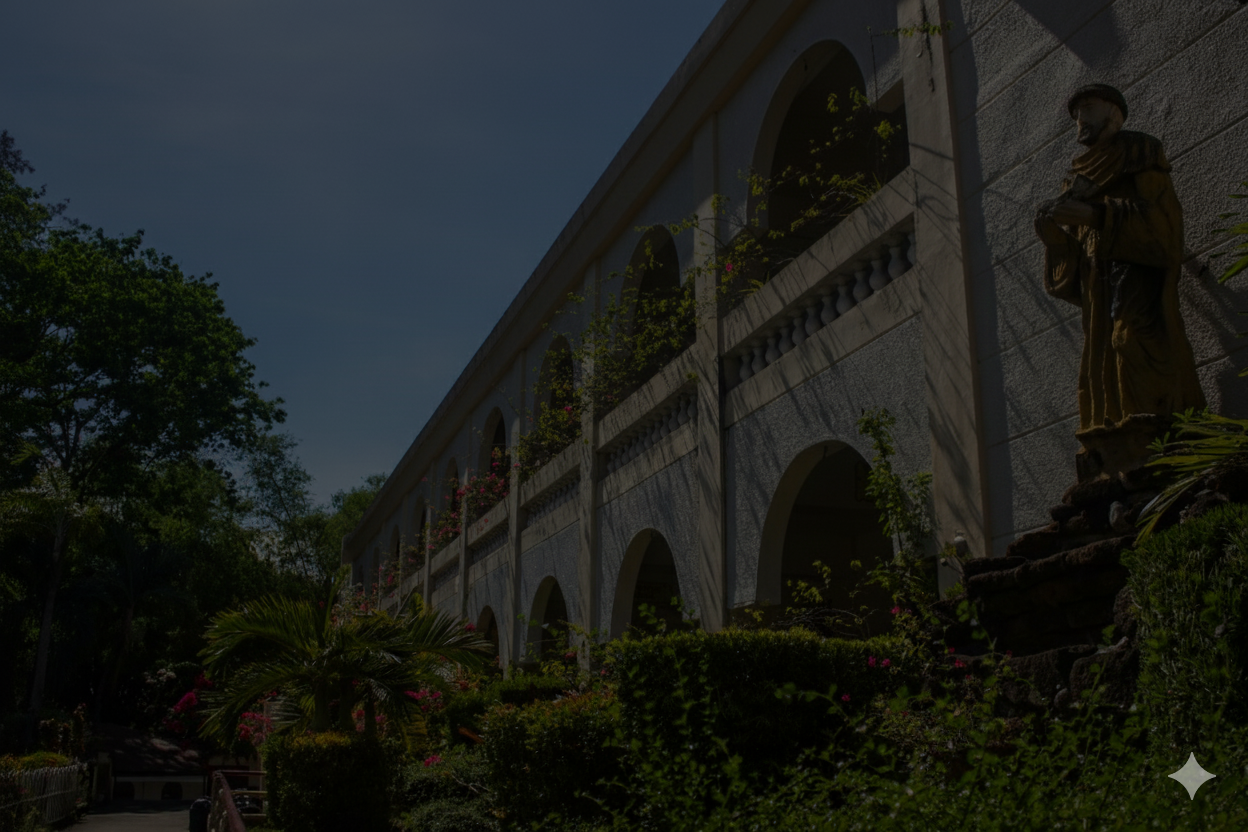
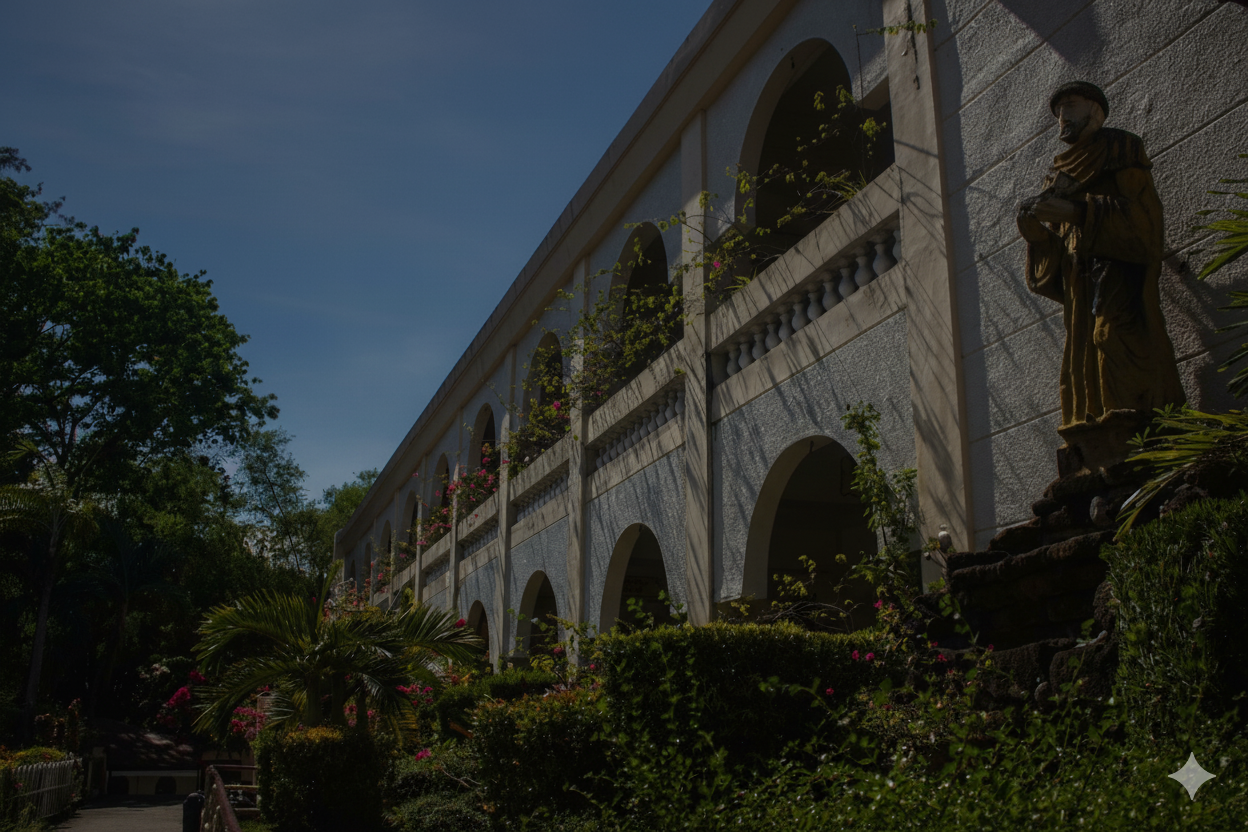
Added about section Change layout for recognitions Added Footer from original site

diff --git a/style/style.css b/style/style.css
@@ -1,7 +1,7 @@
 .banner-bg {
   background-image: url('../assets/img/banner.png'); 
   background-size: cover;
-  background-position: center; 
+  background-position: top; 
   background-repeat: no-repeat; 
 }
 
@@ -21,14 +21,13 @@
 }
 
 .stylish-link {
-  color: #da0021;
+  color: #ffe7ea;
   font-weight: 500;
-  text-decoration: none;
   transition: color 0.3s ease, text-decoration 0.3s ease;
 }
 
 .stylish-link:hover {
-  color: #a8001a;
+  color: #ff9aa9;
   text-decoration: underline;
 }
 
@@ -37,9 +36,8 @@
 }
 
 .custom-card {
-  
   display: flex;
   flex-direction: column;
-  border-radius: 0.5rem; 
-
+  border-radius: 0.5rem;
 }
+

diff --git a/index.php b/index.php
@@ -8,15 +8,15 @@
   <?php include './assets/includes/bootstrap.php'; ?>
 </head>
 
-<body style="padding-top: 96px;">
+<body >
   <main>
     <!-- Navbar -->
     <?php include './assets/includes/navbar.php'; ?>
 
     <!-- Banner -->
-    <div id="banner" class="d-flex w-100 p-4 text-black text-center flex-column align-items-center py-5">
+    <div id="banner" class="banner-bg text-white d-flex w-100 text-black text-center gap-2 flex-column align-items-center" style="padding: 10rem 0;">
       <section id="display-text" class="text-center">
-        <h2 class="display-5 fw-bold font-merriweather">
+        <h2 class="display-4 fw-bold font-merriweather">
           Saint Francis of Assisi College<br>Bacoor Campus
         </h2>
         <p class="fs-5" >
@@ -29,15 +29,26 @@
         <a href="https://maps.app.goo.gl/wRCCcMWUGKBQz5LW6" class="stylish-link">
           <i class="bi bi-geo-alt-fill me-1"></i>#96 Bayanan, City of Bacoor, Cavite
         </a>
-        <div class="d-flex w-100">
-          <button type="button" class="btn bg-custom-red text-white border-0 me-1 w-100">Be One of Us</button>
-          <button type="button" class="btn btn-outline-custom-red w-100">Contact Us</button>
+        <div class="d-flex w-100 gap-1">
+          <button type="button" class="btn bg-custom-red text-white border-0 me-1 w-100 py-3 px-6 rounded-5">Enroll Now</button>
+          <button type="button" class="btn btn-outline-light w-100 py-3 px-6 rounded-5">Contact Us</button>
         </div>
       </section>
     </div>
 
-    <!-- Certifications -->
-    <p class="fw-bold text-center small text-muted">Goverment Recognition</p>
+    <!-- Announcments -->
+    <div class="shadow px-3 py-2 shadow-sm">
+      <div class="container-lg d-flex align-items-center">
+        <i class="bi bi-megaphone-fill me-2 fs-5"></i>
+        <div class="flex-grow-1 small">
+          <strong>Enrollment Open:</strong> Apply now for SY 2025–2026!
+        </div>
+        <a href="#" class="btn btn-light btn-sm ms-3">Announcements</a>
+      </div>
+    </div>
+
+    <!-- Recognition -->
+    <p class="fw-bold text-center small text-muted pt-5">Goverment Recognition</p>
     <div class="container container-lg d-flex flex-row gap-2 justify-content-center" style="height: 4rem;">
       <img src="./assets/img/deped.jpg" alt="">
       <img src="./assets/img/bi.png" alt="" >
@@ -46,12 +57,120 @@
       <img src="./assets/img/tesda.png" alt="" >
     </div>
 
+    <!-- About Us -->
+    <section class="bg-light w-100 my-5">
+      <div class="container-lg py-5">
+        <div class="row g-5 align-items-center">
+          
+          <!-- Text + Course Cards -->
+          <div class="col-12 col-lg-6">
+          <div class="mb-5">
+            <h2 class="font-merriweather fw-bold text-danger mb-3">About Our School</h2>
+            <p class="lead text-dark">
+              At Saint Francis of Assisi College, Bacoor Campus, we nurture academic excellence, holistic development, and lifelong values.
+            </p>
+            <div class="border-start border-3 border-danger ps-3">
+              <ul class="list-unstyled small">
+                <li class="mb-2">
+                  <strong>Empowering students</strong> to become leaders of tomorrow through quality education.
+                </li>
+                <li class="mb-2">
+                  <strong>Fostering a community</strong> of integrity, discipline, and respect.
+                </li>
+                <li class="mb-2">
+                  <strong>Providing opportunities</strong> for both academic and extracurricular growth in a supportive environment.
+                </li>
+              </ul>
+            </div>
+            <button type="button" class="btn btn-outline-dark py-2 px-4 rounded-5">Read More</button>
+          </div>
+
+
+            <!-- Courses Offered -->
+            <h5 class="text-secondary fw-bold font-merriweather">Courses Offered</h5>
+            <div class="row g-2 pt-2">
+              <div class="col-12 border rounded-4 p-3 shadow-sm">
+                <h5 class="text-danger fw-bold">Basic Education</h5>
+                <ul class="small">
+                  <li><strong>Pre-School:</strong> Nursery, Pre-Kinder, Kinder</li>
+                  <li><strong>Elementary:</strong> Grades 1 to 6</li>
+                  <li><strong>Curriculum Includes:</strong>
+                    <ul>
+                      <li>Core subjects (Math, English, Science, Filipino, Araling Panlipunan)</li>
+                      <li>Computer education at all levels</li>
+                      <li>Values formation and holistic development</li>
+                    </ul>
+                  </li>
+                </ul>
+              </div>
+
+              <div class="col-12 border rounded-4 p-3 shadow-sm">
+                <h5 class="text-danger fw-bold">Secondary Education</h5>
+                <ul class="small">
+                  <li><strong>Junior High School:</strong> Grades 7–10</li>
+                  <li>Follows the K to 12 curriculum</li>
+                  <li>Includes computer education, values education, and enrichment programs</li>
+                  <li><strong>Senior High School:</strong> Grades 11–12</li>
+                  <li><strong>Academic Track:</strong>
+                    <ul>
+                      <li>STEM</li>
+                      <li>ABM</li>
+                      <li>HUMSS</li>
+                    </ul>
+                  </li>
+                  <li><strong>TVL Track:</strong> Based on demand and availability</li>
+                </ul>
+              </div>
+
+              <div class="col-12 border rounded-4 p-3 shadow-sm">
+                <h5 class="text-danger fw-bold">Higher Education</h5>
+                <ul class="small">
+                  <li><strong>Education</strong>
+                    <ul>
+                      <li>BSED – Major in English, Math, Filipino</li>
+                      <li>Bachelor of Elementary Education</li>
+                      <li>Bachelor of Early Childhood Education</li>
+                      <li>Bachelor of Physical Education</li>
+                    </ul>
+                  </li>
+                  <li><strong>Business</strong>
+                    <ul>
+                      <li>BSBA – Major in Financial, Marketing, Operations Management</li>
+                    </ul>
+                  </li>
+                  <li><strong>Technology</strong>
+                    <ul>
+                      <li>Bachelor of Science in Computer Science</li>
+                    </ul>
+                  </li>
+                  <li><strong>Hospitality</strong>
+                    <ul>
+                      <li>Bachelor of Science in Hospitality Management</li>
+                    </ul>
+                  </li>
+                </ul>
+              </div>
+            </div>
+          </div>
+
+          <!-- Image Column -->
+          <div class="col-12 col-lg-6 d-flex flex-column align-items-start">
+            <img src="./assets/img/about.png" alt="About SFAC Bacoor" class="img-fluid rounded shadow mb-4" style="max-width: 100%;">
+            <img src="./assets/img/about.png" alt="About SFAC Bacoor" class="img-fluid rounded shadow mb-4" style="max-width: 100%;">
+          </div>
+
+
+        </div>
+      </div>
+    </section>
+
+
     <!-- image Panel -->
     <div class="container container-lg d-flex flex-column gap-2 my-5">
 
       <div class="d-flex flex-row gap-2 w-100" style="height: 40rem;">
 
-        <div class="ratio ratio-16x9 h-100">
+        <div class="ratio h-100">
           <iframe class="card-img-top" width="100%" height="full"
             src="https://www.facebook.com/plugins/video.php?href=https%3A%2F%2Fwww.facebook.com%2Fmysfacbacoor%2Fvideos%2F3517808661797690%2F&show_text=0&width=476"
             title="Basic Education"
@@ -61,7 +180,7 @@
           </iframe>
         </div>
 
-        <div class="h-100 w-100 d-flex flex-column">
+        <div class="h-100 w-100 d-flex flex-column gap-1">
           <div class="ratio ratio-16x9 h-50">
             <iframe class="card-img-top" width="100%" height="full"
               src="https://www.youtube.com/embed/ZaN5RAG39-w?si=usXmKdIa8Ek6lOop"
@@ -74,8 +193,8 @@
 
           <div class="card w-100 h-100 banner-bg text-white">
             <div class="card-body d-flex flex-column justify-content-between">
-              <h5 class="card-title">Visit our Facebook Page</h5>
-              <p class="card-text">Some quick example text to build on the card title.</p>
+              <h5 class="card-title">Visit us on Facebook</h5>
+              <p class="card-text">Saint Francis of Assisi College - Bacoor Campus </p>
               <a href="#" class="btn btn-primary">Redirect</a>
             </div>
           </div>
@@ -85,5 +204,7 @@
     </div>
 
   </main>
+
+  <?php include './assets/includes/footer.php'; ?>
 </body>
 </html>

diff --git a/assets/includes/footer.php b/assets/includes/footer.php
@@ -1,0 +1,96 @@
+  <!-- ======= Footer ======= -->
+  <footer id="footer" class="bg-light">
+
+    <!-- <div class="footer-top">
+      <div class="container">
+        <div class="row">
+
+          <div class="col-lg-3 col-md-6 footer-contact">
+            <h3>Mentor</h3>
+            <p>
+              A108 Adam Street <br>
+              New York, NY 535022<br>
+              United States <br><br>
+              <strong>Phone:</strong> +1 5589 55488 55<br>
+              <strong>Email:</strong> info@example.com<br>
+            </p>
+          </div>
+
+          <div class="col-lg-2 col-md-6 footer-links">
+            <h4>Useful Links</h4>
+            <ul>
+              <li><i class="bx bx-chevron-right"></i> <a href="#">Home</a></li>
+              <li><i class="bx bx-chevron-right"></i> <a href="#">About us</a></li>
+              <li><i class="bx bx-chevron-right"></i> <a href="#">Services</a></li>
+              <li><i class="bx bx-chevron-right"></i> <a href="#">Terms of service</a></li>
+              <li><i class="bx bx-chevron-right"></i> <a href="#">Privacy policy</a></li>
+            </ul>
+          </div>
+
+          <div class="col-lg-3 col-md-6 footer-links">
+            <h4>Our Services</h4>
+            <ul>
+              <li><i class="bx bx-chevron-right"></i> <a href="#">Web Design</a></li>
+              <li><i class="bx bx-chevron-right"></i> <a href="#">Web Development</a></li>
+              <li><i class="bx bx-chevron-right"></i> <a href="#">Product Management</a></li>
+              <li><i class="bx bx-chevron-right"></i> <a href="#">Marketing</a></li>
+              <li><i class="bx bx-chevron-right"></i> <a href="#">Graphic Design</a></li>
+            </ul>
+          </div>
+
+          <div class="col-lg-4 col-md-6 footer-newsletter">
+            <h4>Join Our Newsletter</h4>
+            <p>Tamen quem nulla quae legam multos aute sint culpa legam noster magna</p>
+            <form action="" method="post">
+              <input type="email" name="email"><input type="submit" value="Subscribe">
+            </form>
+          </div>
+
+        </div>
+      </div>
+    </div> -->
+
+    <div class="container d-md-flex py-4">
+
+      <div class="me-md-auto text-center text-md-start">
+          
+        <div class="col-lg col-md footer-contact">
+            <h3><b>Saint Francis of Assisi College - Bacoor</b></h3>
+            <p>
+              #96 Bayanan, City of Bacoor, Cavite
+            </p>
+        </div>
+        <div class="copyright">
+          &copy; Copyright <strong><span>Mentor</span></strong>. All Rights Reserved
+        </div>
+        <div class="credits">
+          <!-- All the links in the footer should remain intact. -->
+          <!-- You can delete the links only if you purchased the pro version. -->
+          <!-- Licensing information: https://bootstrapmade.com/license/ -->
+          <!-- Purchase the pro version with working PHP/AJAX contact form: https://bootstrapmade.com/mentor-free-education-bootstrap-theme/ -->
+          Designed by Aris Songalia</a>
+        </div>
+      </div>
+      <div class="social-links text-center text-md-right pt-3 pt-md-0">
+        <a href="https://www.facebook.com/mysfacbacoor" class="facebook"><i class="bx bxl-facebook"></i></a>
+      </div>
+    </div>
+  </footer><!-- End Footer -->
+  
+
+  <!--<div id="preloader"></div>-->
+  <a href="#" class="back-to-top d-flex align-items-center justify-content-center"><i class="bi bi-arrow-up-short"></i></a>
+
+  <!-- Vendor JS Files -->
+  <script src="assets/vendor/purecounter/purecounter_vanilla.js"></script>
+  <script src="assets/vendor/aos/aos.js"></script>
+  <script src="assets/vendor/bootstrap/js/bootstrap.bundle.min.js"></script>
+  <script src="assets/vendor/swiper/swiper-bundle.min.js"></script>
+  <script src="assets/vendor/php-email-form/validate.js"></script>
+
+  <!-- Template Main JS File -->
+  <script src="assets/js/main.js"></script>
+
+</body>
+
+</html>

diff --git a/assets/includes/navbar.php b/assets/includes/navbar.php
@@ -1,6 +1,6 @@
 <div id="container" style="padding-top: 96px;">
   <!-- Top Contact Bar -->
-  <div class="bg-custom-red text-white py-1 small fixed-top " style="z-index: 1031;">
+  <div class="bg-danger text-white py-1 small fixed-top " style="z-index: 1031;">
     <div class="container-md d-flex justify-content-between align-items-center">
       <div>
         <i class="bi bi-envelope me-1"></i>admissions.sfacbacoor@gmail.com
